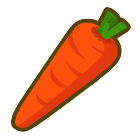
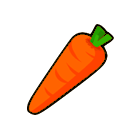
ENEMY HP바가 빨대와 안겹치게 조금 올림

Changed region(s): [[0.0571, 0.0286, 0.9429, 0.9429], [0.4571, 0.4286, 0.4857, 0.4571]]

diff --git a/plain/src/playScene/sprites/Enemy.js b/plain/src/playScene/sprites/Enemy.js
@@ -27,6 +27,10 @@ var Enemy = Block.extend({
 	},
 	hurt: function(damage, callback) {
 		this.hpBar.heal(damage);
+		// hpBar가 Full면 그림을 바꾸기 
+		if(this.hpBar.getPercentage() === 100) {
+			cc.log("코니: 고마워^^ 나 상태가 좋아진듯!")
+		}
 		callback();
 	},
 	isOpened : function(dir) {

diff --git a/plain/src/playScene/sprites/HealthBar.js b/plain/src/playScene/sprites/HealthBar.js
@@ -8,6 +8,9 @@ var HealthBar = cc.ProgressTimer.extend({
 		this.cureAt = right;
 		this.currentHP = onStart;
 		
+		var height = this._getHeight();		
+		this.setPosition(undefined, 26);
+
 		var percent = (onStart - left) / (right - left) * 100;
 		this.setPercentage(percent);
 		
